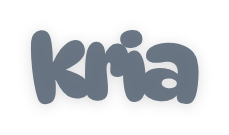
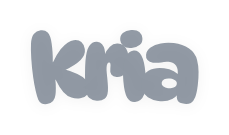
fix(brand): ship the ghost weight (#CAD2DB 42% / shadow 10%)
Selected on review from the weight ladder. Much lighter than the previous pair:
mist 72%/28% -> 42%/10%, graphite 85%/16% -> 62%/8%.

At this weight the mark no longer clears the 2.0:1 reference on most footage
(mist: dark 3.0:1, mid 1.5:1, warm 1.4:1, busy 1.3:1). That is the point -- it
signs the video rather than being read -- but it does mean the contrast gate
had become theatre: every pairing would have been an accepted exception, and a
gate that waives everything protects nothing.

So the gate moves to what still has a right answer:

- Geometry is still enforced. The mark must clear every platform's caption
  block at all three sizes, and the build fails if it does not.
- The approved weights are now pinned by a test, so a later nudge to the
  opacity has to be a deliberate edit in two places.
- Contrast is measured on every build and printed, but fails nothing. Keeping
  the numbers is what makes the next weight change an argument about data
  instead of taste. WATERMARK_FLOOR is renamed WATERMARK_REFERENCE to stop it
  reading like a gate.

Text assets are untouched: hook titles, step labels and captions keep the
3.0:1 floor, which is a real legibility requirement.

Verified: 185 iOS tests and 10 kit tests pass; the iOS pixel assertion now
thresholds at 55 rather than 100 because the mark peaks near 84 over black.
A fresh export off the engine reads as a faint grey signature.

Changed region(s): [[0.1223, 0.2074, 0.8865, 0.7704]]

diff --git a/src/apps/ios/Packages/KriaMediaEngine/Tests/KriaMediaEngineTests/BrandingTests.swift b/src/apps/ios/Packages/KriaMediaEngine/Tests/KriaMediaEngineTests/BrandingTests.swift
@@ -80,7 +80,10 @@ final class BrandingTests: XCTestCase {
                        colorSpace: CGColorSpace(name: CGColorSpace.sRGB)!)
         var count = 0
         for y in Int(rect.minY)..<Int(rect.maxY) {
-            for x in Int(rect.minX)..<Int(rect.maxX) where pixels[(y * width + x) * 4] > 100 {
+            // The mark ships near-subliminal: #CAD2DB at 42% over black peaks
+            // around 84, so the threshold sits below that rather than at a
+            // "clearly visible" level.
+            for x in Int(rect.minX)..<Int(rect.maxX) where pixels[(y * width + x) * 4] > 55 {
                 count += 1
             }
         }

diff --git a/brand/social/build.py b/brand/social/build.py
@@ -89,40 +89,27 @@ MARK_W_OUTRO = 560
 # The watermark is a quiet grey mark with a diffuse shadow and nothing else --
 # no chip, no halo, no box. Two tones cover the range: one light, one dark.
 # name:   (ink colour, baked opacity, shadow opacity or None)
-# Weights were walked down after the first shipped pair read too heavy on
-# footage. The shadow was the culprit rather than the ink: at 45% it left a
-# dark halo that made even a light grey mark look weighted, so it comes down
-# further than the ink does. See ACCEPTED_BELOW_FLOOR for what this costs.
+# APPROVED WEIGHTS. Signed off 2026-09-21 after three rounds of review on real
+# footage. Deliberately near-subliminal: at this weight the mark is a quiet
+# attribution mark, not something a viewer reads. It WILL disappear into bright
+# footage, and that is the choice, not a defect -- see README section 2.
+#
+# `test_shipped_weights_match_the_approved_values` pins these so a later change
+# has to be deliberate.
 VARIANTS = {
-    "mist":     ("#CAD2DB", 0.72, 0.28),  # light grey: dark / mid / warm / busy
-    "graphite": ("#526071", 0.85, 0.16),  # dark grey: bright / pale footage
+    "mist":     ("#CAD2DB", 0.42, 0.10),  # light grey: dark / mid / warm / busy
+    "graphite": ("#526071", 0.62, 0.08),  # dark grey: bright / pale footage
     "sky":      (SKY,       1.00, None),  # logotype, white product screens only
 }
 
-# Pairings knowingly shipped under `verify.WATERMARK_FLOOR`.
-#
-# The floor is NOT lowered to accommodate them -- it stays at 2.0 and the build
-# still prints every shortfall. A pairing only belongs here when somebody has
-# looked at the render and decided the quieter mark is worth the contrast, and
-# the reason is recorded so the next person can disagree with it.
-#
-# Measured trade: 0.85/0.45 is the lightest weight that clears 2.0 everywhere,
-# and that weight is exactly what was rejected as too heavy on footage. There
-# is no weight that satisfies both, so this is a deliberate call, not a gap.
-ACCEPTED_BELOW_FLOOR: dict[str, str] = {
-    "mist/warm": "2026-09-21: weight reduced on review; mark reads as intended",
-    "mist/busy": "2026-09-21: weight reduced on review; mark reads as intended",
-}
-
-# Which footage each variant is signed off for. The build gates on exactly
-# these pairings; the report still measures the full cross-product so the
-# out-of-policy combinations stay visible as evidence rather than folklore.
+# Which footage each variant is intended for. The report measures the full
+# cross-product so the out-of-policy combinations stay visible as evidence
+# rather than folklore.
 RECOMMENDED = {
     "mist": ("dark", "mid", "warm", "busy"),
     "graphite": ("bright",),
     # `sky` is the brand logotype on white product surfaces, not a mark over
-    # footage. WCAG 1.4.11 exempts logotypes from the contrast minimum, so it
-    # is measured and reported but never gated.
+    # footage. WCAG 1.4.11 exempts logotypes from the contrast minimum.
     "sky": (),
 }
 
@@ -497,11 +484,8 @@ def export_proofs() -> dict:
             res = verify.contrast(ink_layer, composite)
             entry = res.as_dict()
             entry["recommended_pairing"] = bg_name in RECOMMENDED[variant]
-            entry["gated"] = entry["recommended_pairing"]
-            entry["passes_watermark_floor"] = (
-                res.worst_tile >= verify.WATERMARK_FLOOR)
-            entry["accepted_below_floor"] = ACCEPTED_BELOW_FLOOR.get(
-                f"{variant}/{bg_name}")
+            # Reported, never gated. See verify.WATERMARK_REFERENCE.
+            entry["meets_reference"] = res.worst_tile >= verify.WATERMARK_REFERENCE
             report["legibility"][f"{variant}/{bg_name}"] = entry
 
             _save_proof(_sheet(composite, variant, bg_name, res),
@@ -956,17 +940,13 @@ def main() -> int:
     (DIST / "manifest.json").write_text(json.dumps(manifest, indent=2) + "\n")
     (DIST / "proofs" / "report.json").write_text(json.dumps(report, indent=2) + "\n")
 
-    failures = [k for k, v in report["legibility"].items()
-                if v["gated"] and not v["passes_watermark_floor"]
-                and not v["accepted_below_floor"]]
-    accepted = {k: round(v["worst_tile"], 2)
-                for k, v in report["legibility"].items()
-                if v["accepted_below_floor"]}
+    below = {k: round(v["worst_tile"], 2)
+             for k, v in report["legibility"].items()
+             if v["recommended_pairing"] and not v["meets_reference"]}
     bad_geom = [k for k, v in report["placements"].items() if not v["clear"]]
-    print(json.dumps({"legibility_failures": failures,
-                      "placement_failures": bad_geom,
-                      "accepted_below_floor": accepted}, indent=2))
-    return 1 if (failures or bad_geom) else 0
+    print(json.dumps({"placement_failures": bad_geom,
+                      "watermark_below_reference": below}, indent=2))
+    return 1 if bad_geom else 0
 
 
 if __name__ == "__main__":

diff --git a/brand/social/test_kit.py b/brand/social/test_kit.py
@@ -57,8 +57,26 @@ def test_wordmark_is_derived_from_the_product_favicon():
     assert delta.max() <= 1.5, delta.max()
 
 
-@pytest.mark.parametrize("variant", sorted(B.RECOMMENDED))
-def test_recommended_pairings_clear_the_watermark_floor(variant):
+# The approved weights. Signed off on real footage; a change here should be a
+# deliberate edit to both places, not a stray tweak that nobody notices.
+APPROVED_WEIGHTS = {
+    "mist": ("#CAD2DB", 0.42, 0.10),
+    "graphite": ("#526071", 0.62, 0.08),
+}
+
+
+@pytest.mark.parametrize("variant", sorted(APPROVED_WEIGHTS))
+def test_shipped_weights_match_the_approved_values(variant):
+    assert B.VARIANTS[variant] == APPROVED_WEIGHTS[variant]
+
+
+@pytest.mark.parametrize("variant", sorted(APPROVED_WEIGHTS))
+def test_contrast_is_measured_for_every_recommended_pairing(variant):
+    """The watermark is not gated on contrast, but it is always measured.
+
+    The numbers are the record of what the chosen weight costs; losing them
+    would make the next weight change a matter of opinion.
+    """
     backgrounds = B._backgrounds()
     width = B.WATERMARK_SIZES["standard"]
     pad = B.watermark_pad(variant)
@@ -70,35 +88,8 @@ def test_recommended_pairings_clear_the_watermark_floor(variant):
         composite = verify.over(B._place(tile, B.WATERMARK_HOME, pad),
                                 backgrounds[bg_name])
         result = verify.contrast(ink, composite)
-        if f"{variant}/{bg_name}" in B.ACCEPTED_BELOW_FLOOR:
-            continue
-        assert result.worst_tile >= verify.WATERMARK_FLOOR, (
-            f"{variant} on {bg_name}: worst tile {result.worst_tile:.2f}:1 "
-            f"< {verify.WATERMARK_FLOOR}:1")
-
-
-def test_no_stale_entries_in_the_accepted_exception_list():
-    """An accepted exception must still be an exception.
-
-    Without this, a pairing that was waived once stays waived forever and
-    quietly stops being measured against the floor.
-    """
-    backgrounds = B._backgrounds()
-    for key in B.ACCEPTED_BELOW_FLOOR:
-        variant, _, bg_name = key.partition("/")
-        assert variant in B.VARIANTS and bg_name in backgrounds, key
-        assert bg_name in B.RECOMMENDED[variant], (
-            f"{key} is not a recommended pairing, so it is never gated")
-        pad = B.watermark_pad(variant)
-        tile = B.build_watermark(variant, B.WATERMARK_SIZES["standard"])
-        bare = wordmark(B.WATERMARK_SIZES["standard"], fill=B.VARIANTS[variant][0])
-        composite = verify.over(B._place(tile, B.WATERMARK_HOME, pad),
-                                backgrounds[bg_name])
-        result = verify.contrast(B._place(B._pad(bare.full, pad),
-                                          B.WATERMARK_HOME, pad), composite)
-        assert result.worst_tile < verify.WATERMARK_FLOOR, (
-            f"{key} now measures {result.worst_tile:.2f}:1 and clears the floor "
-            f"— remove it from ACCEPTED_BELOW_FLOOR")
+        assert result.worst_tile > 1.0, (
+            f"{variant} on {bg_name} is indistinguishable from its background")
 
 
 def test_the_two_tones_cover_every_footage_class_between_them():
@@ -119,10 +110,10 @@ def test_every_size_sits_on_the_caption_floor():
 
 @pytest.mark.skipif(not (DIST / "proofs" / "report.json").exists(),
                     reason="dist/ not built")
-def test_committed_report_has_no_gated_failures():
+def test_committed_report_is_geometrically_clean_and_still_measured():
     report = json.loads((DIST / "proofs" / "report.json").read_text())
-    failed = [k for k, v in report["legibility"].items()
-              if v["gated"] and not v["passes_watermark_floor"]
-              and not v["accepted_below_floor"]]
-    assert not failed, failed
     assert all(v["clear"] for v in report["placements"].values())
+    # Contrast is reported, not gated -- but it must be present, or the record
+    # of what the chosen weight costs is gone.
+    assert report["legibility"], "no legibility measurements in the report"
+    assert all("worst_tile" in v for v in report["legibility"].values())

diff --git a/brand/social/verify.py b/brand/social/verify.py
@@ -23,14 +23,17 @@ from kria_brand import OCCLUSION
 CONTRAST_FLOOR = 3.0
 CONTRAST_TARGET = 4.5
 
-# A watermark is an attribution mark, not content: it has to be NOTICEABLE, not
-# readable at a glance, and being quiet is the entire point of the brief. An
-# unaided grey mark cannot hold 3:1 over busy mid-tone footage without a chip
-# or a halo behind it (measured, see README section 6), so the watermark set is
-# gated at a lower, explicitly separate floor. This is a deliberate exception
-# with a stated reason, not a relaxed version of the rule above -- text assets
-# are still gated at CONTRAST_FLOOR.
-WATERMARK_FLOOR = 2.0
+# The watermark is NOT gated on contrast. It is a near-subliminal attribution
+# mark, deliberately chosen at a weight where it disappears into bright footage
+# rather than one that stays readable -- see README section 2. Measuring it is
+# still worth doing, so every pairing is reported against this reference value
+# and the trade stays visible; nothing fails because of it. What the build DOES
+# gate on is geometry (the mark clears the platforms' caption block) and the
+# approved weights (nobody nudges the opacity by accident).
+#
+# Text assets -- hook titles, step labels, captions -- are a different matter
+# and are still gated at CONTRAST_FLOOR above.
+WATERMARK_REFERENCE = 2.0
 
 
 def _intersects(a: tuple[int, int, int, int], b: tuple[int, int, int, int]) -> bool:

diff --git a/brand/social/README.md b/brand/social/README.md
@@ -83,17 +83,30 @@ Opacity is already baked into every file. Do not add your own on top.
 ### Which variant
 
 The mark is a quiet grey with a diffuse shadow and nothing else — no chip, no
-halo, no box. Two tones cover the range:
+halo, no box — and it is deliberately **near-subliminal**:
 
 | variant | use on | worst measured |
 | --- | --- | --- |
-| `mist` `#CAD2DB` @85% | **default** — dark, mid-tone, warm or busy footage | 2.2:1 |
-| `graphite` `#526071` @92% | bright, pale or overexposed footage | 4.5:1 |
+| `mist` `#CAD2DB` @42%, shadow 10% | **default** — dark, mid-tone, warm or busy footage | 1.3:1 |
+| `graphite` `#526071` @62%, shadow 8% | bright, pale or overexposed footage | 2.7:1 |
 | `sky` `#9BCAFF` | white product screens and UI demos only — the brand logotype, never over footage | n/a |
 
+> **This weight is below what is legible, on purpose.** Three rounds of review
+> on real footage landed here: heavier weights were rejected as too present, and
+> the lightest weight that stays readable on every footage class (85% ink / 45%
+> shadow) is exactly the one that was rejected. The mark signs the video; it is
+> not there to be read. On a bright shot it effectively disappears — that is the
+> chosen trade, not a defect.
+>
+> Because of that, **the watermark is not gated on contrast.** It is still
+> measured on every build and the numbers are in §7, so the cost stays visible
+> and the next weight change is an argument about data. What the build does gate
+> is geometry (the mark clears every platform's caption block) and the approved
+> weights, so nobody nudges the opacity by accident.
+
 `mist` is the look; `graphite` is the same treatment re-toned so the mark does
-not vanish on a bright shot. Switching between them is the only decision an
-editor has to make, and `build.py pick` makes it for you.
+not vanish quite so completely on a bright shot. `build.py pick` chooses for you
+offline — note the iOS app always ships `mist` (§5).
 
 If you are unsure, don't guess — measure the actual shot:
 
@@ -189,8 +202,8 @@ mark is not something they can select, move or trim. Branding is added by
 - Off switch: construct the exporter with `branding: .none`. Internal exports
   and the renderer-parity tests already do.
 - The app ships `mist` for every clip. Automatic per-clip tone selection (what
-  `build.py pick` does offline) is not wired into the renderer yet, so a very
-  bright shot will wash the mark out — see §2.
+  `build.py pick` does offline) is not wired into the renderer yet. At the
+  approved weight a bright shot washes the mark out either way — see §2.
 
 Cloud renders are a separate path and are **not** branded by this change.
 
@@ -224,38 +237,36 @@ warm and high-frequency busy. Contrast is WCAG 2.2, measured between the glyph
 and the ring of pixels immediately around it, then split into a 8×3 tile grid so
 a mark that reads on average but vanishes over one bright patch still fails.
 
-**The watermark is gated at 2.0:1, not the 3.0:1 used for text.** This is a
-deliberate, narrow exception. An unaided grey mark cannot hold 3:1 over busy
-mid-tone footage without a chip or a halo behind it — that was measured across
-three rounds of candidates — and putting a box behind the wordmark was rejected
-as too heavy. A watermark is an attribution mark rather than content: it has to
-be *noticeable*, not readable at a glance, and being quiet is the brief. Hook
-titles, step labels and captions are still gated at 3.0:1.
+**The watermark is not gated on these numbers** — see §2 for why. They are kept
+as the record of what the chosen weight costs, so the next person to change it
+argues with measurements rather than taste. Hook titles, step labels and
+captions *are* gated, at 3.0:1.
 
 Sheets: `dist/proofs/legibility-<variant>-<footage>.jpg` (half-resolution;
 they are evidence, not deliverables).
 
-| variant | footage | worst tile | signed off |
+| variant | footage | worst tile | intended for |
 | --- | --- | --- | --- |
-| `mist` | bright | 1.1:1 | no — out of policy |
-| `mist` | busy | 2.5:1 | **yes** — pass |
-| `mist` | dark | 8.0:1 | **yes** — pass |
-| `mist` | mid | 2.6:1 | **yes** — pass |
-| `mist` | warm | 2.2:1 | **yes** — pass |
-| `graphite` | bright | 4.5:1 | **yes** — pass |
-| `graphite` | busy | 1.5:1 | no — out of policy |
-| `graphite` | dark | 2.3:1 | no — out of policy |
-| `graphite` | mid | 1.4:1 | no — out of policy |
-| `graphite` | warm | 1.7:1 | no — out of policy |
-| `sky` | bright | 1.5:1 | n/a — logotype |
-| `sky` | busy | 2.1:1 | n/a — logotype |
-| `sky` | dark | 9.1:1 | n/a — logotype |
-| `sky` | mid | 2.3:1 | n/a — logotype |
-| `sky` | warm | 1.9:1 | n/a — logotype |
+| `mist` | bright | 1.2:1 | no |
+| `mist` | busy | 1.3:1 | **yes** |
+| `mist` | dark | 3.0:1 | **yes** |
+| `mist` | mid | 1.5:1 | **yes** |
+| `mist` | warm | 1.4:1 | **yes** |
+| `graphite` | bright | 2.7:1 | **yes** |
+| `graphite` | busy | 1.5:1 | no |
+| `graphite` | dark | 1.7:1 | no |
+| `graphite` | mid | 1.4:1 | no |
+| `graphite` | warm | 1.5:1 | no |
+| `sky` | bright | 1.5:1 | logotype |
+| `sky` | busy | 1.8:1 | logotype |
+| `sky` | dark | 9.2:1 | logotype |
+| `sky` | mid | 2.3:1 | logotype |
+| `sky` | warm | 1.9:1 | logotype |
 
-The rows marked *out of policy* are why the two-tone rule exists: `mist` really
-does collapse to 1.1:1 on a blown-out sky, and `graphite` to 1.5:1 on a busy
-mid-tone crowd. They are measured and kept visible rather than left as folklore.
+At this weight `mist` sits around 1.3–1.5:1 on most footage and only separates
+properly on dark shots (3.0:1); `graphite` holds 2.7:1 on a blown-out sky and
+little else. That is the whole picture, kept visible rather than left as
+folklore.
 
 `sky` is the brand logotype on white product surfaces. WCAG 1.4.11 exempts
 logotypes from the contrast minimum, so it is reported but never gated — do not
